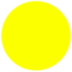
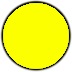
Modificada imagens.

Changed region(s): [[0.0, 0.0, 1.0, 1.0]]

diff --git a/src/container/Home.js b/src/container/Home.js
@@ -4,7 +4,7 @@ import {hashHistory} from 'react-router';
 
 export default class Home extends Component {
     homeCardCadastro = {
-        img: 'cadastro3',
+        img: 'cadastro',
         title: 'Cadastro',
         text: 'Cadastrar pedidos.',
         alt: 'Cadastro',

diff --git a/src/ui/HomeCard.js b/src/ui/HomeCard.js
@@ -1,5 +1,5 @@
 import React from 'react';
-import cadastro3 from '../img/cadastro3.png';
+import cadastro from '../img/cadastro.png';
 import status from '../img/status.png';
 import controlePedido from '../img/controlePedido.png';
 import caixa from '../img/caixa.png';

diff --git a/src/App.js b/src/App.js
@@ -1,7 +1,6 @@
 import React, { Component } from 'react';
 import './App.css';
 import NavBar from './ui/NavBar';
-import Home from './container/Home';
 
 class App extends Component {
   render() {
